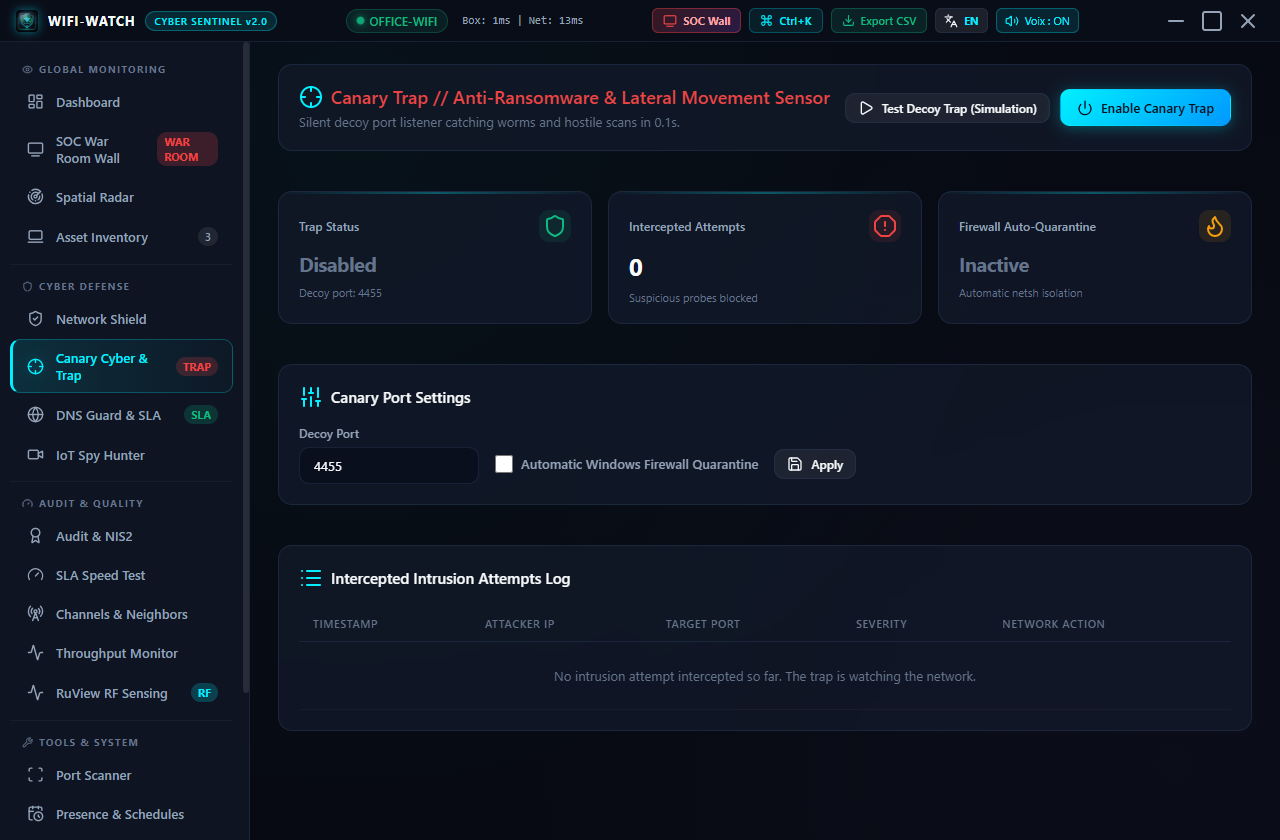
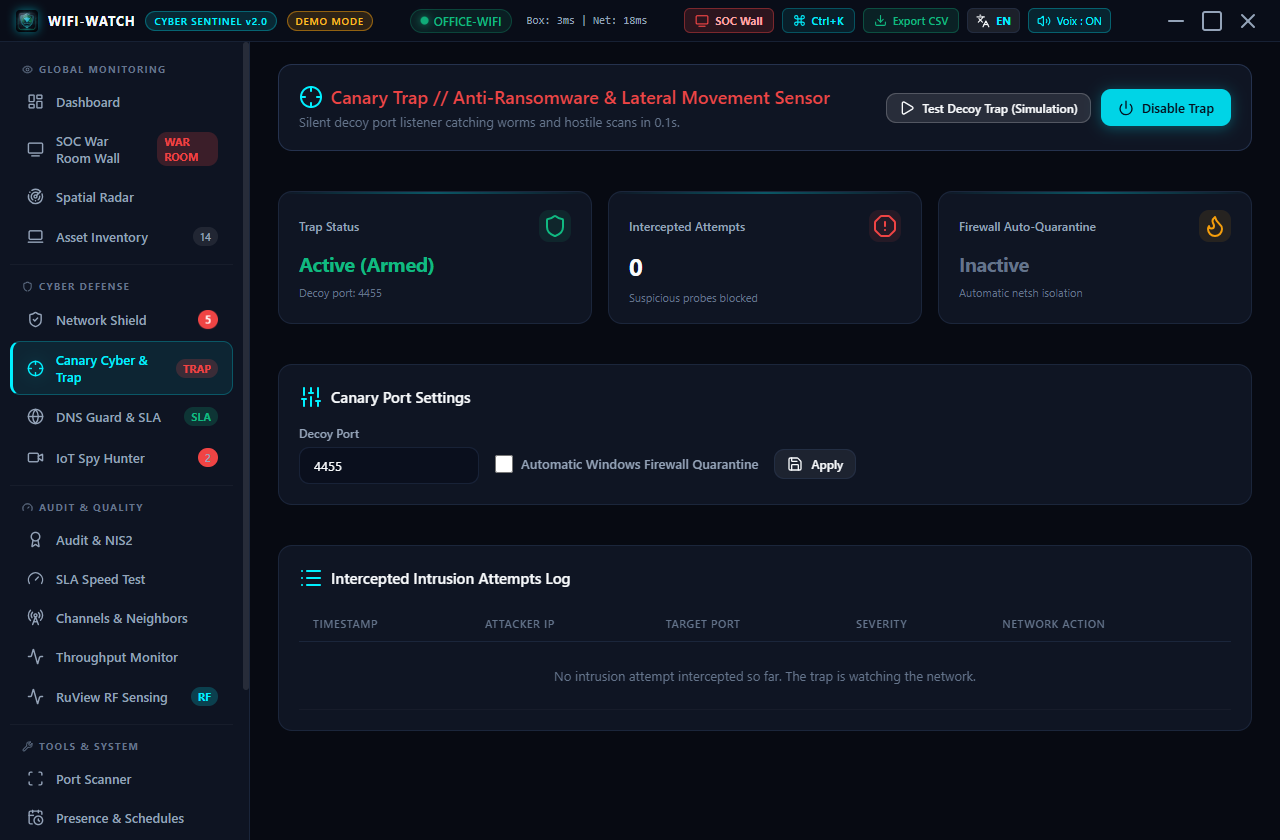
feat(demo): simulated spy hunt and seeded alerts; refresh README screenshots from demo mode

diff --git a/desktop-app/src/main.js b/desktop-app/src/main.js
@@ -19,7 +19,7 @@ const { executeFullSpeedTest } = require('./network/speedtest');
 const { scanNeighborNetworks: realScanNeighborNetworks } = require('./network/channelAnalyzer');
 const { wakeDevice: realWakeDevice } = require('./network/wol');
 const { calculateSecurityScore, generateHtmlReport } = require('./network/auditReport');
-const { scanDeviceForSurveillance, huntAllSpyDevices } = require('./network/spyDetector');
+const { scanDeviceForSurveillance: realScanDeviceForSurveillance, huntAllSpyDevices: realHuntAllSpyDevices } = require('./network/spyDetector');
 const quarantine = require('./network/quarantine');
 const RuViewBridge = require('./network/ruviewBridge');
 const WebhookDispatcher = require('./network/webhookDispatcher');
@@ -46,6 +46,8 @@ const getNetworkEnvironment = DEMO ? async () => demo.getEnvironment() : realGet
 const performScan = DEMO ? async (env, onProgress) => demo.scan(onProgress) : realPerformScan;
 const scanNeighborNetworks = DEMO ? async () => demo.neighborNetworks() : realScanNeighborNetworks;
 const scanDevicePorts = DEMO ? async (ip) => demo.scanPorts(ip) : realScanDevicePorts;
+const huntAllSpyDevices = DEMO ? demo.spyHunt : realHuntAllSpyDevices;
+const scanDeviceForSurveillance = DEMO ? async (d) => demo.spyReport(d) : realScanDeviceForSurveillance;
 const wakeDevice = DEMO ? async () => ({ success: true }) : realWakeDevice;
 const isolateDevice = DEMO ? async () => ({ success: true }) : quarantine.isolateDevice;
 const unisolateDevice = DEMO ? async () => ({ success: true }) : quarantine.unisolateDevice;
@@ -186,6 +188,33 @@ async function startBackgroundServices() {
     setTimeout(() => {
         executeScan();
     }, 1000);
+
+    if (DEMO) {
+        // Démo : quelques alertes réalistes en plus de l'Evil Twin levé par le scan
+        setTimeout(() => {
+            const seeded = [
+                db.addAlert({
+                    type: 'CANARY_TRAP_TRIGGERED',
+                    title: 'ALERTE INTRUSION : Sonde suspecte sur le port canari !',
+                    description: "L'hôte 192.168.1.88 a tenté de se connecter au port leurre 4455. Risque de scan agressif ou mouvement latéral.",
+                    severity: 'critical', ip: '192.168.1.88'
+                }),
+                db.addAlert({
+                    type: 'NEW_DEVICE', title: 'Nouvel appareil détecté sur le Wi-Fi',
+                    description: "Un appareil inconnu (Inconnu) a rejoint le réseau avec l'IP 192.168.1.77 et la MAC A0:B1:C2:77:00:77.",
+                    severity: 'warning', deviceMac: 'A0:B1:C2:77:00:77', ip: '192.168.1.77'
+                }),
+                db.addAlert({
+                    type: 'NEW_DEVICE', title: 'Nouvel appareil détecté sur le Wi-Fi',
+                    description: "Un appareil inconnu (Inconnu) a rejoint le réseau avec l'IP 192.168.1.88 et la MAC A0:B1:C2:88:00:88.",
+                    severity: 'warning', deviceMac: 'A0:B1:C2:88:00:88', ip: '192.168.1.88'
+                })
+            ].filter(Boolean);
+            for (const alert of seeded) {
+                if (mainWindow && !mainWindow.isDestroyed()) mainWindow.webContents.send('alert:added', alert);
+            }
+        }, 4000);
+    }
 
     // Initialisation du canari Honeypot si activé
     const settings = db.getSettings();
@@ -404,6 +433,7 @@ app.whenReady().then(() => {
     }
     speedMonitor = new SpeedMonitor();
     sentinel = new Sentinel(db);
+    if (DEMO) sentinel.getHour = () => 14; // démo : pas d'alerte « activité nocturne » selon l'heure réelle
     ruviewBridge = new RuViewBridge(() => mainWindow);
 
     createWindow();

diff --git a/desktop-app/src/network/demo.js b/desktop-app/src/network/demo.js
@@ -117,4 +117,40 @@ function wanInfo() {
     return { ip: '203.0.113.7', country: 'France', city: 'Paris', isp: 'Example ISP', org: 'Example ISP' };
 }
 
-module.exports = { getEnvironment, scan, neighborNetworks, bandwidthSample, scanPorts, wanInfo, DEMO_SSID };
+const SPY_PORT_INFO = {
+    554: { port: 554, service: 'RTSP', protocol: 'Video Stream', desc: 'Flux vidéo en direct non chiffré (RTSP)', risk: 'high' },
+    8000: { port: 8000, service: 'Hikvision / DVR', protocol: 'Camera Control', desc: 'Port de gestion Hikvision / DVR', risk: 'high' },
+    37777: { port: 37777, service: 'Dahua', protocol: 'Camera Control', desc: 'Port propriétaire Dahua Technology', risk: 'high' }
+};
+const SPY_FINDINGS = {
+    '192.168.1.40': { level: 'CRITICAL', reason: 'Flux vidéo direct (RTSP) ouvert sans authentification requise !', brand: 'Hikvision', ports: [554, 8000] },
+    '192.168.1.41': { level: 'HIGH', reason: 'Équipement de diffusion audio/vidéo actif sur le réseau local', brand: 'Dahua', ports: [554, 37777] }
+};
+
+function spyReport(device) {
+    const f = SPY_FINDINGS[device.ip];
+    const base = { ip: device.ip, mac: device.mac, hostname: device.hostname || 'Appareil Inconnu', vendor: device.vendor || 'Inconnu', scannedAt: new Date().toISOString() };
+    if (!f) {
+        return { ...base, isSurveillanceDevice: false, threatLevel: 'SAFE', riskReason: 'Aucun flux vidéo ou micro détecté', detectedBrand: null, equipmentType: 'Équipement Standard', openSurveillancePorts: [], streamUrls: [], hasAudioCapability: false };
+    }
+    return {
+        ...base, isSurveillanceDevice: true, threatLevel: f.level, riskReason: f.reason, detectedBrand: f.brand,
+        equipmentType: 'Caméra IP', openSurveillancePorts: f.ports.map(p => SPY_PORT_INFO[p]),
+        streamUrls: [`rtsp://${device.ip}:554/live/ch0`, `rtsp://${device.ip}:554/onvif1`], hasAudioCapability: true
+    };
+}
+
+async function spyHunt(devices, onProgress) {
+    const online = devices.filter(d => d.isOnline);
+    const results = [];
+    for (let i = 0; i < online.length; i++) {
+        const dev = online[i];
+        if (onProgress) onProgress({ current: i + 1, total: online.length, currentIp: dev.ip, currentName: dev.customName || dev.hostname || dev.ip });
+        await new Promise(r => setTimeout(r, 250));
+        const report = spyReport(dev);
+        if (report.isSurveillanceDevice) results.push(report);
+    }
+    return { scannedCount: online.length, spyDevicesFound: results.length, devices: results, timestamp: new Date().toISOString() };
+}
+
+module.exports = { spyHunt, spyReport, getEnvironment, scan, neighborNetworks, bandwidthSample, scanPorts, wanInfo, DEMO_SSID };

diff --git a/desktop-app/src/renderer/js/i18n-en.js b/desktop-app/src/renderer/js/i18n-en.js
@@ -646,6 +646,10 @@ window.I18N_EN_DYNAMIC = {
   "Aucun serveur DHCP pirate ou conflit de passerelle détecté sur le segment local.": "No rogue DHCP server or gateway conflict detected on the local segment.",
   "URL WebSocket invalide (ws:// ou wss:// requis)": "Invalid WebSocket URL (ws:// or wss:// required)",
   "(à jour)": "(up to date)",
+  "Caméra IP": "IP Camera",
+  "Flux vidéo direct (RTSP) ouvert sans authentification requise !": "Direct video stream (RTSP) open with no authentication required!",
+  "Équipement de diffusion audio/vidéo actif sur le réseau local": "Active audio/video streaming device on the local network",
+  "Aucun flux vidéo ou micro détecté": "No video stream or microphone detected",
   "Quitter la démo": "Exit the demo",
   "Vous utilisez la dernière version.": "You are running the latest version."
  },
@@ -665,6 +669,10 @@ window.I18N_EN_DYNAMIC = {
   [
    "^Impossible de vérifier les mises à jour : (.+)$",
    "Unable to check for updates: $1"
+  ],
+  [
+   "^Flux : (.+)$",
+   "Stream: $1"
   ],
   [
    "^Canal : (.+)$",

diff --git a/desktop-app/src/renderer/js/app-features.js b/desktop-app/src/renderer/js/app-features.js
@@ -719,7 +719,7 @@ async function refreshWallboard() {
                 <div class="wb-event-item ${a.severity === 'critical' ? 'critical' : (a.severity === 'warning' ? 'warning' : '')}">
                     <div>
                         <strong style="color: var(--text-primary); font-size: 11px;">${escapeHtml(a.title)}</strong>
-                        <div style="font-size: 10px; color: var(--text-muted);">${a.description ? escapeHtml(a.description.slice(0, 65)) + '...' : ''}</div>
+                        <div style="font-size: 10px; color: var(--text-muted); display: -webkit-box; -webkit-line-clamp: 2; -webkit-box-orient: vertical; overflow: hidden;">${a.description ? escapeHtml(a.description) : ''}</div>
                     </div>
                     <span style="font-family: monospace; color: var(--text-muted); font-size: 10px; white-space: nowrap;">
                         ${new Date(a.timestamp).toLocaleTimeString('fr-FR', { hour: '2-digit', minute: '2-digit' })}

diff --git a/desktop-app/src/network/sentinel.js b/desktop-app/src/network/sentinel.js
@@ -72,7 +72,7 @@ class Sentinel {
         }
 
         // 4. Activité nocturne sur appareil inconnu
-        const hour = new Date().getHours();
+        const hour = this.getHour ? this.getHour() : new Date().getHours();
         if (hour >= 0 && hour < 5) {
             for (const dev of scannedDevices) {
                 const existing = existingMap.get(dev.mac.toUpperCase());
